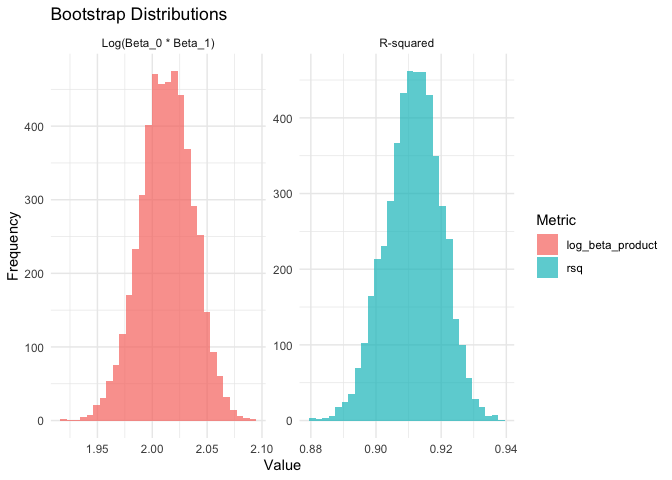
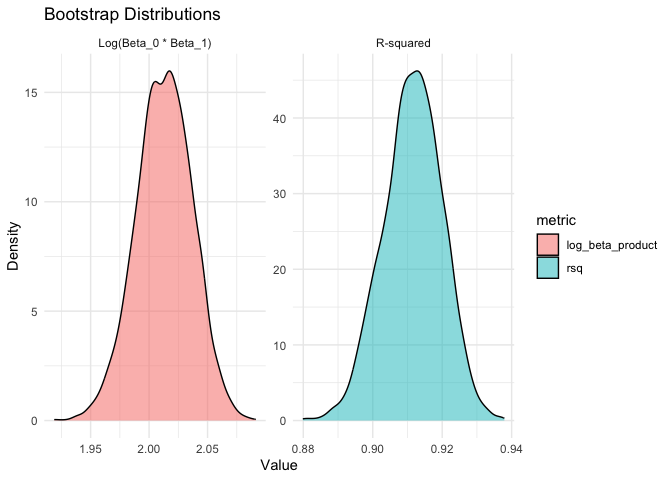
Completed all questions and final check

diff --git a/p8105_hw6_vr2576.md b/p8105_hw6_vr2576.md
@@ -42,6 +42,18 @@ library(rnoaa)
 ``` r
 library(readr)
 library(purrr)
+library(modelr)
+```
+
+    ## 
+    ## Attaching package: 'modelr'
+    ## 
+    ## The following object is masked from 'package:broom':
+    ## 
+    ##     bootstrap
+
+``` r
+library(rsample)
 ```
 
 ## Problem 1: 2017 Central Park Weather Data
@@ -93,16 +105,15 @@ glimpse(bootstrap_results)
 bootstrap_results %>%
   select(rsq, log_beta_product) %>%
   pivot_longer(cols = everything(), names_to = "metric", values_to = "value") %>%
-  ggplot(aes(x = value, fill = metric)) +
-  geom_histogram(bins = 30, alpha = 0.7, position = "identity") +
+  ggplot(aes(x = value)) +
+  geom_density(aes(fill = metric), alpha = 0.5) +
   facet_wrap(~metric, scales = "free", labeller = as_labeller(
     c(rsq = "R-squared", log_beta_product = "Log(Beta_0 * Beta_1)")
   )) +
   theme_minimal() +
   labs(title = "Bootstrap Distributions",
     x = "Value",
-    y = "Frequency",
-    fill = "Metric")
+    y = "Density")
 ```
 
 ![](p8105_hw6_vr2576_files/figure-gfm/q1-1.png)<!-- -->
@@ -110,18 +121,16 @@ bootstrap_results %>%
 ``` r
 # Calculate summary statistics
 ci_results <- bootstrap_results %>%
-  summarize(rsq_ci = quantile(rsq, probs = c(0.025, 0.975)),
-    log_beta_ci = quantile(log_beta_product, probs = c(0.025, 0.975))
-  )
+  summarize(rsq_ci = list(quantile(rsq, probs = c(0.025, 0.975))),
+    log_beta_ci = list(quantile(log_beta_product, probs = c(0.025, 0.975)))) %>%
+  unnest_wider(c(rsq_ci, log_beta_ci), names_sep = "_")
+ci_results
 ```
 
-    ## Warning: Returning more (or less) than 1 row per `summarise()` group was deprecated in
-    ## dplyr 1.1.0.
-    ## ℹ Please use `reframe()` instead.
-    ## ℹ When switching from `summarise()` to `reframe()`, remember that `reframe()`
-    ##   always returns an ungrouped data frame and adjust accordingly.
-    ## Call `lifecycle::last_lifecycle_warnings()` to see where this warning was
-    ## generated.
+    ## # A tibble: 1 × 4
+    ##   `rsq_ci_2.5%` `rsq_ci_97.5%` `log_beta_ci_2.5%` `log_beta_ci_97.5%`
+    ##           <dbl>          <dbl>              <dbl>               <dbl>
+    ## 1         0.895          0.927               1.96                2.06
 
 ## Problem 2: Homicide Data Analysis
 
@@ -194,6 +203,46 @@ odds_ratio_baltimore
     ## 1     10.5     6.01      21.9
 
 ``` r
+baltimore_glm %>% 
+  augment(type.predict = "response") %>% 
+  ggplot(aes(x = .fitted, y = .resid)) +
+  geom_point() +
+  geom_hline(yintercept = 0, linetype = "dashed") +
+  labs(title = "Residuals vs Fitted Values for Baltimore Model",
+       x = "Fitted Values",
+       y = "Residuals")
+```
+
+![](p8105_hw6_vr2576_files/figure-gfm/q2-1.png)<!-- -->
+
+``` r
+# Create cross-validation splits
+cv_df = crossv_mc(baltimore_data, 100)
+
+# Fit models and calculate RMSEs
+cv_df = cv_df |>
+  mutate(glm_mod = map(train, \(df) glm(resolved ~ victim_age + victim_race + victim_sex, 
+                                   family = binomial(), data = df)),
+    glm_mod_interaction = map(train, \(df) glm(resolved ~ victim_age + victim_race * victim_sex, 
+                                               family = binomial(), data = df))) |>
+  mutate(rmse_glm = map2_dbl(glm_mod, test, \(mod, df) rmse(model = mod, data = df)),
+    rmse_glm_interaction = map2_dbl(glm_mod_interaction, test, \(mod, df) rmse(model = mod, data = df)))
+
+# Visualize RMSE distributions
+cv_df |>
+  select(starts_with("rmse")) |>
+  pivot_longer(everything(),
+    names_to = "model", 
+    values_to = "rmse",
+    names_prefix = "rmse_") |>
+  mutate(model = fct_inorder(model)) |>
+  ggplot(aes(x = model, y = rmse)) + 
+  geom_violin()
+```
+
+![](p8105_hw6_vr2576_files/figure-gfm/q2-2.png)<!-- -->
+
+``` r
 ## All cities
 # Run logistic regression for each city and extract OR for sex
 city_results = homicides_data %>%
@@ -233,12 +282,15 @@ city_results %>%
   theme(axis.text.y = element_text(size = 8))
 ```
 
-![](p8105_hw6_vr2576_files/figure-gfm/q2-1.png)<!-- -->
+![](p8105_hw6_vr2576_files/figure-gfm/q2-3.png)<!-- -->
 
 **Baltimore:** Female victims are 10.5 times more likely to have their
 homicides resolved than male victims. The confidence interval (6.01,
 21.9) suggests that this result is statistically significant and points
 to a substantial gender disparity in homicide resolution rates.
+
+Additionally, as the violin plots largely overlap, the models have
+similar predictive performance.
 
 **Adjusted Odds Ratios for Male vs Female in Resolved Homicides:** Long
 Beach, CA, and New York, NY have the largest confidence intervals for
@@ -259,3 +311,99 @@ New York also suggests that this result is statistically significant.
 In contrast, Albuquerque, NM has the lowest adjusted odds ratio (0.566),
 indicating that women in this city are much less likely to have their
 homicides solved compared to men.
+
+## Problem 3: Birthweight
+
+``` r
+# Load and clean data
+birthweight_data = read_csv("data/birthweight.csv") %>%
+  drop_na() %>%
+  mutate(babysex = factor(babysex, levels = c("1", "2"), labels = c("Male", "Female")),
+    frace = factor(frace, levels = c("1", "2", "3", "4", "8"), labels = c("White", "Black", "Asian", "Puerto Rican", "Other")),
+    mrace = factor(mrace, levels = c("1", "2", "3", "4"), labels = c("White", "Black", "Asian", "Puerto Rican")),
+    malform = factor(malform, levels = c("0", "1"), labels = c("No", "Yes")))
+
+
+## Fit a regression model and evaluate residuals
+# My hypothesized model includes baby's sex (babysex), head circumference (bhead), length at birth (blength), mother’s weight at delivery (delwt), family monthly income (fincome), gestational age in weeks (gaweeks), mother's height (mheight), mother's race (mrace), number of live births prior to this pregnancy (parity), and average number of cigarettes smoked per day during pregnancy (smoken). 
+my_model = lm(bwt ~ babysex + bhead + blength + delwt + fincome + gaweeks + mheight + mrace + parity + smoken, data = birthweight_data)
+
+# Plot residuals vs fitted values
+residuals_plot = birthweight_data %>% 
+  add_residuals(my_model) %>%
+  add_predictions(my_model) %>%
+  ggplot(aes(x = pred, y = resid)) +
+  geom_point() +
+  geom_hline(yintercept = 0, linetype = "dashed") +
+  labs(title = "Residuals vs Fitted Values",
+       x = "Fitted Values",
+       y = "Residuals")
+residuals_plot
+```
+
+![](p8105_hw6_vr2576_files/figure-gfm/q3-1.png)<!-- -->
+
+``` r
+# Fit comparison models
+# Comparison Model 1: Length at birth (blength) and gestational age (gaweeks) as predictors (main effects only)
+model1 = lm(bwt ~ blength + gaweeks, data = birthweight_data)
+
+# Comparison Model 2: Head circumference (bhead), length at birth (blength), sex (babysex), and all interactions (including the three-way interaction) between these
+model2 = lm(bwt ~ bhead + blength + babysex + bhead*blength + bhead*babysex + blength*babysex + bhead*blength*babysex, data = birthweight_data)
+
+# Cross-validated prediction error
+cv_df = crossv_mc(birthweight_data, 100)
+cv_df = cv_df %>% 
+  mutate(train = map(train, as_tibble),
+    test = map(test, as_tibble))
+
+cv_df = cv_df %>% 
+  mutate(my_mod  = map(train, ~lm(bwt ~ babysex + bhead + blength + delwt + fincome + gaweeks + mheight + mrace + parity + smoken, data = .x)),
+    mod1  = map(train, ~lm(bwt ~ blength + gaweeks, data = .x)),
+    mod2  = map(train, ~lm(bwt ~ bhead + blength + babysex + bhead*blength + bhead*babysex + blength*babysex + bhead*blength*babysex, data = .x))) %>% 
+  mutate(rmse_my = map2_dbl(my_mod, test, ~rmse(model = .x, data = .y)),
+    rmse_1  = map2_dbl(mod1, test, ~rmse(model = .x, data = .y)),
+    rmse_2  = map2_dbl(mod2, test, ~rmse(model = .x, data = .y)))
+
+cv_df %>% 
+  select(starts_with("rmse")) %>% 
+  pivot_longer(everything(),
+    names_to = "model", 
+    values_to = "rmse",
+    names_prefix = "rmse_") %>% 
+  mutate(model = fct_inorder(model)) %>% 
+  ggplot(aes(x = model, y = rmse)) + geom_violin()
+```
+
+![](p8105_hw6_vr2576_files/figure-gfm/q3-2.png)<!-- -->
+
+**Model Predictors:** Since we are dealing with birthweight, factors
+like maternal health (momage, ppbmi, ppwt, wtgain), baby health
+indicators (bhead, blength, gaweeks), and lifestyle factors (smoken,
+fincome) are reasonable predictors. However, the original model was
+complex with many predictors or interactions – I had to simplify the
+model to include
+
+**Residuals vs Fitted Values Plot:** The residuals plot suggests that
+the linear regression assumptions (linearity, homoscedasticity) are
+reasonably met as points are scattered randomly around the horizontal
+line at y = 0, there are no clear patterns or trends, and there is a
+relatively constant spread of residuals across fitted values.
+
+**Cross-validated Prediction Error:** My proposed model (my_mod) has the
+lowest median RMSE but has a wide distribution. This indicates that, on
+average, it provides the most accurate predictions of birthweight.
+However, the wide distribution of RMSE values indicates that its
+performance is somewhat inconsistent across different subsets of the
+data.
+
+Model1, which uses only length and gestational age as predictors, has a
+higher median RMSE, indicating lower overall predictive accuracy
+compared to my model. However, its narrow distribution suggests that it
+performs more consistently across different subsets of the data.
+
+Model2, which includes interactions between head circumference, length,
+and sex, performs similarly to my proposed model. It has a slightly
+higher median RMSE but also exhibits a wide distribution of RMSE values.
+This suggests that the added complexity of the interactions doesn’t
+substantially improve predictive performance over my model.
